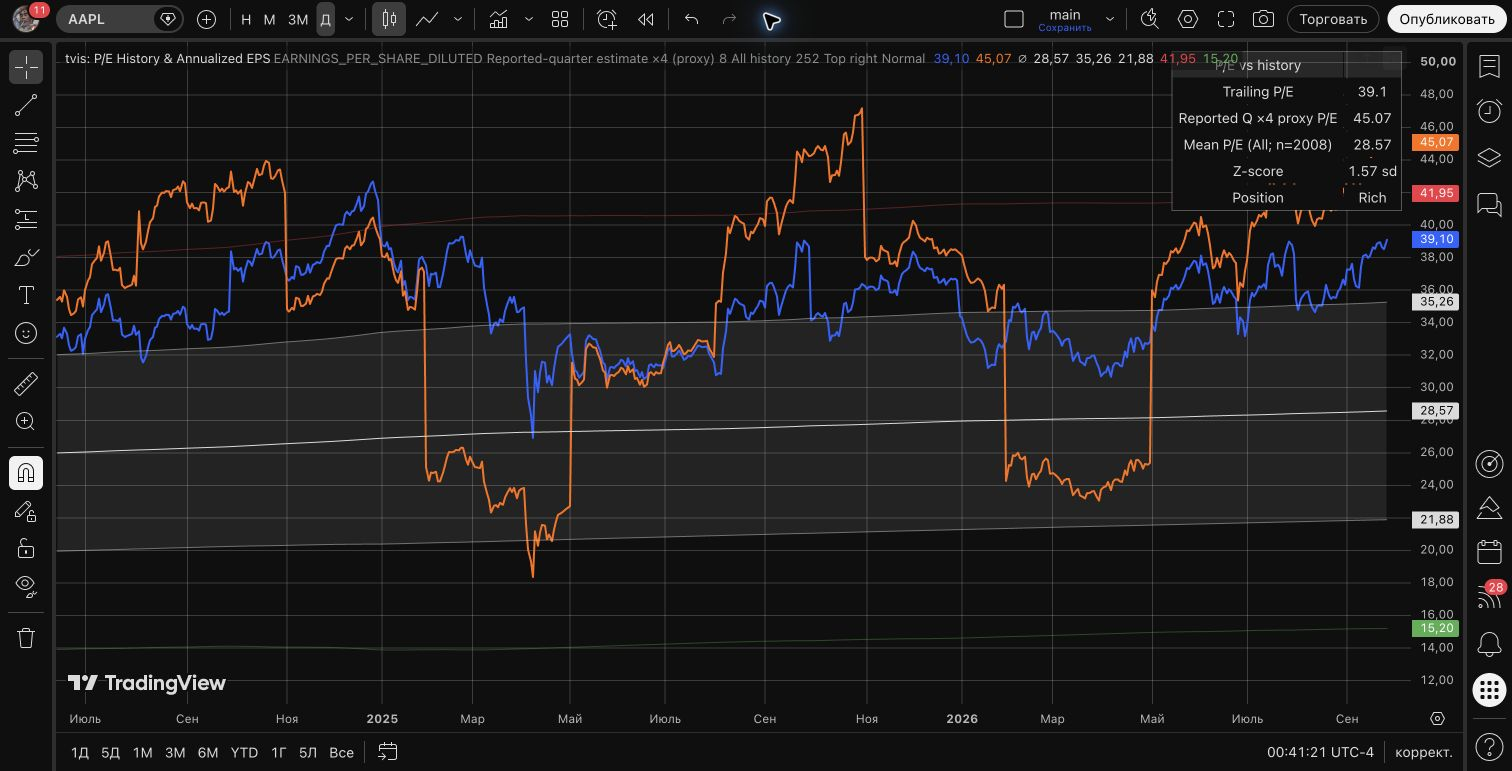
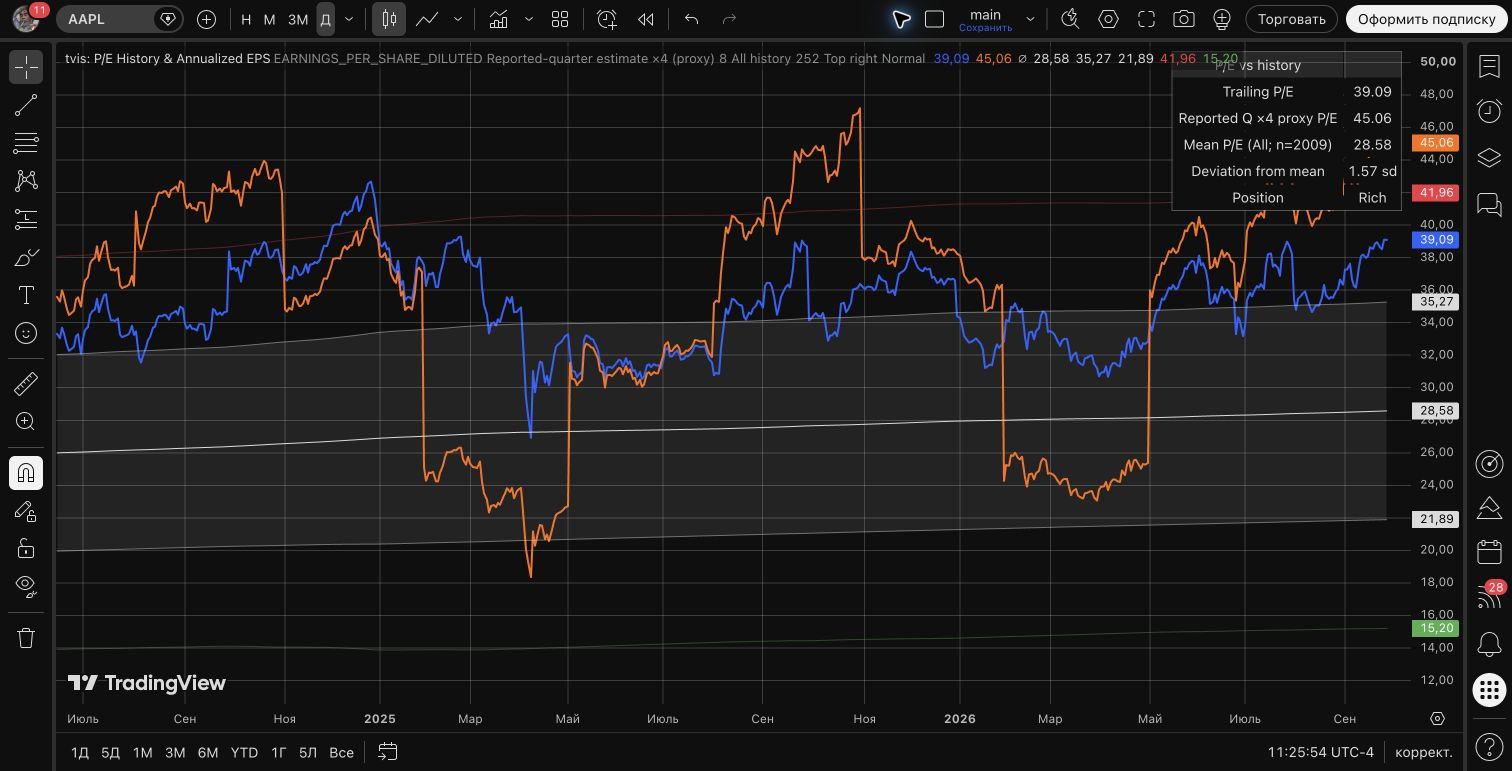
feat(pine): clarify deviation and verify live P/E behavior

diff --git a/scripts/check_pe.py b/scripts/check_pe.py
@@ -171,15 +171,16 @@ else
             raise fail(f"production statistics wiring must contain exactly once: {statement}")
     if len(re.findall(r"\bstatsQueueUpdate\s*\(", source)) != 2:
         raise fail("production must contain one statsQueueUpdate declaration and one guarded call")
-    band_plots = (
+    display_wiring = (
+        'table.cell(t, 0, 4, "Deviation from mean", text_color=chart.fg_color, bgcolor=rowBg, text_size=txtSize)',
         'pu1 = plot(showBands and not na(pe) ? u1 : na, "+1σ", color=color.new(chart.fg_color, 55), style=plot.style_linebr)',
         'pl1 = plot(showBands and not na(pe) ? l1 : na, "-1σ", color=color.new(chart.fg_color, 55), style=plot.style_linebr)',
         'plot(showBands and not na(pe) ? u2 : na, "+2σ", color=color.new(color.red, 65), style=plot.style_linebr)',
         'plot(showBands and not na(pe) ? l2 : na, "-2σ", color=color.new(color.green, 65), style=plot.style_linebr)',
     )
-    for statement in band_plots:
+    for statement in display_wiring:
         if lines.count(statement) != 1:
-            raise fail(f"production band plot must contain exactly once: {statement}")
+            raise fail(f"production display wiring must contain exactly once: {statement}")
     forbidden = ("ta.sma(pe, lookback)", "ta.stdev(pe, lookback)", "s2 / n -", "statsRemove(", "varip")
     for statement in forbidden:
         if statement in compact:

diff --git a/docs/validation.md b/docs/validation.md
@@ -1,11 +1,118 @@
 # Pine validation
 
-## Final validation — 2026-09-27
+## Final-source live validation — 2026-09-28
 
-**Historical/numerical checks passed; final-version realtime is NOT RUN.**
-This is not an all-green release sign-off. The 2026-09-25 realtime observation
+**Final-source Pine compilation, harness, live ticks and closed-bar reload passed
+in both All history and Rolling 252.** The Sunday realtime gap recorded below
+is now closed. The publication package is prepared; no TradingView
+publication was performed.
+
+| Artifact | SHA-256 |
+|---|---|
[3 lines of base64/hex data omitted]
+
+Compared with the September 27 source, production changes are limited to the
+visible table label `Z-score` → `Deviation from mean` and replacement of the
+stale timeframe-coverage comment with supported-context instructions. Financial
+requests, ratio/statistics functions, inputs and execution flow are unchanged.
+The earlier numerical and performance records retain their original SHAs;
+they were not presented as new runs. The renamed row still displays the same
+z-score and `sd` unit. README and publication text explain its formula and sign.
+
+The existing local checker now requires exactly one actual stripped table-cell
+line with the new label. Reverting the label while adding a matching comment,
+duplicating the actual line, or removing it each fails the check; the real
+source passes. This is a literal UI rename, not a numerical behavior change.
+The regenerated harness compiled and ran in Pine with **Smoke result = 1.0000**
+(19:21 +04). The exact production source was then pasted, copied back in full,
+SHA-checked after CRLF normalization, saved, compiled and executed. A post-live
+readback from saved **tvis: P/E Final Validation** again matched the final SHA.
+No unexpected compiler diagnostic or runtime error occurred in these runs.
+
+### Live procedure and observations
+
+Chart `UB8lbzak`, search symbol NASDAQ:AAPL, runtime **BATS:AAPL**, 1-minute
+standard candles, native USD, regular session, dividend adjustment off.
+TradingView reported market open and NASDAQ data from Cboe One updated every
+five seconds. Inputs: diluted TTM EPS, reported-quarter estimate ×4 proxy on,
+growth 8%, lookback 252, bands/table on, Top right/Normal. Only the window mode
+changed between the two runs. Times below are **2026-09-28, UTC-4**; add four
+hours for UTC or eight for Tbilisi.
+
+| Mode / open bar | Observation time | Close | Trailing P/E | Proxy | Mean | +1σ | -1σ | +2σ | -2σ |
+|---|---|---:|---:|---:|---:|---:|---:|---:|---:|
+| All / 11:21 | 11:21:34 | 340.84 | 39.07 | 45.04 | 38.07 | 39.01 | 37.13 | 39.95 | 36.18 |
+| All / 11:21 | 11:21:49 | 340.82 | 39.07 | 45.04 | 38.07 | 39.01 | 37.13 | 39.95 | 36.18 |
+| All / 11:21 | 11:21:54 | 340.87 | 39.08 | 45.04 | 38.07 | 39.01 | 37.13 | 39.95 | 36.18 |
+| Rolling / 11:23 | 11:23:24 | 341.19 | 39.11 | 45.09 | 39.06 | 39.15 | 38.96 | 39.25 | 38.86 |
+| Rolling / 11:23 | 11:23:42 | 340.90 | 39.08 | 45.05 | 39.06 | 39.15 | 38.96 | 39.25 | 38.86 |
+| Rolling / 11:23 | 11:23:58 | 340.91 | 39.08 | 45.05 | 39.06 | 39.15 | 38.96 | 39.25 | 38.86 |
+
+All-history table count stayed at **5572** within 11:21 and advanced to **5573**
+on the next minute; Rolling count was **252**. Multiple tick updates therefore
+did not accumulate extra samples within a bar. The displayed mean/bands need
+not move at every tick because they are rounded to two decimals.
+
+After each next minute opened, the preceding bar was selected in Data Window.
+Layout saving was confirmed by **Все изменения сохранены** before each normal
+page reload. The same date/time was selected again after reload; no symbol,
+interval, session, adjustment, currency or indicator input changed. Reload
+restored the saved viewport; cursor selection was repeated on the same bar.
+
+| Mode / closed bar | Before / after observation time | Close | P/E | Proxy | Mean | +1σ | -1σ | +2σ | -2σ |
+|---|---|---:|---:|---:|---:|---:|---:|---:|---:|
+| All / 11:21 | 11:22:09 / 11:22:38 | 340.88 | 39.08 | 45.05 | 38.07 | 39.01 | 37.13 | 39.95 | 36.18 |
+| Rolling / 11:23 | 11:24:15 / 11:24:38 | 340.94 | 39.08 | 45.05 | 39.06 | 39.15 | 38.96 | 39.25 | 38.86 |
+
+**All eight displayed numbers matched before/after in both rows**, including
+price. Indicator differences were 0.00, within the ±0.005 display tolerance
+from `precision=2`; the hidden growth plot remained unavailable. The supervisor
+independently compared both raw output rows and prices. This proves observable
+live updates, bar finalization and reload stability for these contexts, not
+hidden floating-point identity or immunity to future provider revisions.
+The table always describes the current last bar, so its current z/verdict is
+not treated as a historical Data Window value.
+
+An earlier reload before layout-save acknowledgement reopened the old NOW
+layout and was excluded. Likewise, an observation immediately after changing
+window mode still contained pre-recalculation values and was excluded. Neither
+is reported as a numerical mismatch or a passing final-source comparison.
+
+Raw DOM snapshots, screenshots, source readbacks and harness evidence were
+saved outside the repository at `/tmp/tvis-task7-live/`. In particular,
+`all325-closed-before.txt` / `all325-closed-after.txt` and the corresponding
+`rolling325-*` pair contain the selected date, time, price and complete output
+row; `all325-live1/2/3.txt` and `rolling325-live2/3/4.txt` contain the tick
+observations. Reproduce by saving the exact source/layout, recording three
+updates on one open minute, selecting that minute after the next one opens,
+then normally reloading and selecting the identical closed minute.
+
+### Saved copies and restoration
+
+The original Data Probe source was backed up before testing. Its chart instance
+was temporarily removed to permit adding the separate final copy; the user's
+old P/E instance and hidden ORB/LuxAlgo instances were preserved. After testing,
+the final test instance was removed and the exact original Data Probe was
+added again. Its source readback matched the probe SHA above; it compiled and
+showed the original EPS/estimate plots, comparison JPY, and the source-default
+log start 2026-01-01 00:00 UTC. The layout returned to NOW 1M standard candles
+with T1 watchlist, editor/data window closed, and was saved. The separately
+saved final editor copy remains the verified production version.
+
+The updated publication image shows this final source on AAPL 1D at 11:25:54
+UTC-4, with the production pane enlarged. Its current daily bar is open; this
+illustration is separate from the closed-minute comparisons above.
+
+
+## Historical final validation — 2026-09-27
+
+**Status on September 27: historical/numerical checks passed; realtime was NOT RUN.**
+The September 28 final-source live record above supersedes this remaining gap.
+This checkpoint was not an all-green release sign-off. The 2026-09-25 realtime observation
 below used an earlier source SHA and does not validate live behavior of the
-final source. Production code was unchanged in this final documentation task.
+final source. Production code was unchanged at the September 27 checkpoint.
 
 | Artifact | SHA-256 |
 |---|---|
@@ -51,8 +158,10 @@ Ratio tolerance was 1e-8; displayed z tolerance was 1e-7 because rounding an
 relax the full-precision Pine mean/sigma tolerance above.
 
 Session raw DOM logs, CSV, suffixes and the runnable arithmetic check were
-retained outside the repository in `/tmp/tvis-task7-m2BvYh/`; these temporary
-files are supplementary evidence, not an installation dependency. Reproduce
+saved at validation time in `/tmp/tvis-task7-m2BvYh/`. These temporary files
+were no longer present on 2026-09-28; the recorded independent checks and
+measurements below are the retained report, not a claim of current raw-file
+availability. Reproduce
 by appending measurement code to a scratch copy, logging the selected raw
 fields and using the independent two-pass arithmetic above. Never leave a
 measurement suffix in the installed production script.
@@ -230,16 +339,16 @@ commands are `make check`, `make test`, `git diff --check`, and
 `shasum -a 256 indicators/pe.pine`; local gates do not substitute for Pine
 runtime or the outstanding realtime observation.
 
-### Remaining acceptance gap
+### Acceptance gap recorded on September 27 (superseded above)
 
-**Realtime on this exact production SHA is NOT RUN.** On Sunday 2026-09-27 the
+**Realtime on this exact historical source SHA was NOT RUN.** On Sunday 2026-09-27 the
 supported equities checked here reported market closed. No live supported
 stock's multiple ticks, bar close and subsequent reload were observed for
 this SHA. Historical reload and crypto activity do not close that criterion.
-Repeat the existing live procedure with this exact source when a supported
-market opens; record open-bar changes, final closed-bar values and the same
-bar after reload. Until then the final realtime acceptance criterion and
-full publication readiness remain open.
+The final realtime acceptance criterion remained open at this checkpoint.
+The September 28 record above closes it on the updated final source with
+multiple live ticks, bar close and the same closed bar after normal reload
+in both window modes.
 
 
 Local commands verify files and generate source. They do not compile or run

diff --git a/docs/publication.md b/docs/publication.md
@@ -1,13 +1,13 @@
 # Publication draft
 
-**Status:** prepared for review, not published. Final-source realtime validation
-remains open; do not describe this package as fully validated until that check
-is recorded. No TradingView Publish action was performed.
+**Status:** prepared, not published. Final-source live ticks and
+closed-bar reload passed in both window modes on 2026-09-28; see the validation
+record for exact contexts and limits. No TradingView Publish action was performed.
 
 **ASCII title:** `tvis: P/E History & Annualized EPS`  
 **Author:** `golyshevskii`  
 **Source:** [`../indicators/pe.pine`](../indicators/pe.pine)  
[2 lines of base64/hex data omitted]
 **License:** MPL-2.0, with the source notice and author attribution retained.
 
 ## English description
@@ -15,7 +15,12 @@ is recorded. No TradingView Publish action was performed.
 Compare a stock's trailing price-to-earnings ratio with its own loaded chart
 history. Choose diluted or basic trailing-twelve-month EPS. The indicator
 shows trailing P/E, its arithmetic mean, population standard-deviation bands,
-and a z-score with a descriptive historical position.
+and **Deviation from mean** with a descriptive historical position.
+
+Deviation from mean is the z-score: `(current P/E - mean) / sigma`. Its unit,
+`sd`, means standard deviations. Positive values are above the historical mean,
+negative values below it; `1.5 sd` means 1.5 standard deviations above the mean.
+This describes relative historical position, not a probability or trade signal.
 
 An optional second ratio offers two distinct methods:
 
@@ -78,16 +83,18 @@ unchanging history. Neither proxy nor growth scenario predicts returns.
   with overlapping ranges; no universal speedup percentage is claimed.
 
 The final [validation record](validation.md) states exactly which source,
-contexts, dates and inputs were checked, and which realtime check remains open.
+contexts, dates and inputs were checked, including both final-source realtime
+window modes and closed-bar reload comparisons.
 
 ## Chart image
 
-![AAPL daily P/E indicator, standard-candle source, 2026-09-25 close](images/pe-aapl-daily.png)
+![AAPL daily P/E indicator with Deviation from mean, 2026-09-28](images/pe-aapl-daily.png)
 
-Captured 2026-09-27 on BATS:AAPL 1D, native USD, regular session, dividend
-adjustment off; diluted EPS, All history, reported-quarter proxy, default
-growth 8%/lookback 252, bands/table on, Top right/Normal. The exact production
-indicator pane is enlarged for the image; the underlying chart uses standard
-candles. Closed-bar trailing P/E 39.10, proxy 45.07, mean 28.57, n=2008,
-z=1.57 and Position Rich. The image is a historical illustration, not a live
-validation result.
+Captured 2026-09-28 at 11:25:54 UTC-4 on BATS:AAPL 1D, native USD, regular
+session, dividend adjustment off; diluted EPS, All history, reported-quarter
+proxy, default growth 8%/lookback 252, bands/table on, Top right/Normal.
+The exact final production pane is enlarged; the underlying chart uses standard
+candles. The current daily bar is open: trailing P/E 39.09, proxy 45.06,
+mean 28.58, n=2009, Deviation from mean 1.57 sd, Position Rich. This image
+illustrates the interface; the separate validation record documents live ticks
+and comparisons of identical closed one-minute bars.

diff --git a/README.md b/README.md
@@ -20,10 +20,15 @@ TTM growth rate. It is not an NTM consensus forecast. All history averages
 valid loaded chart bars; Rolling uses the last N consecutive chart bars.
 Small positive EPS can create very large P/E values and dominate the mean.
 
+**Deviation from mean** is `(current P/E - mean) / sigma`, shown in standard
+deviations (`sd`). Positive values are above the mean; negative values are
+below it. For example, `1.5 sd` means 1.5 standard deviations above the mean.
+
 See the [calculation contract](docs/calculation-contract.md),
 [validation record](docs/validation.md), [performance measurements](docs/performance.md)
-and [publication draft](docs/publication.md). The final-version realtime check
-is still pending; the publication draft is not a release approval.
+and [publication draft](docs/publication.md). Final-source live ticks and
+closed-bar reload passed in both window modes on 2026-09-28. The publication
+draft is prepared; no script has been published.
 
 ## Local verification
 

diff --git a/docs/calculation-contract.md b/docs/calculation-contract.md
@@ -103,7 +103,7 @@ ADR conversion/split policy is supplied by the provider; this probe does
 not certify arbitrary ADR ratios or corporate-action histories.
 
 The final 2026-09-27 matrix additionally measured standard regular-session
-60-minute and monthly AAPL/GOOG bars; see [validation](validation.md#final-validation--2026-09-27).
+60-minute and monthly AAPL/GOOG bars; see [validation](validation.md#historical-final-validation--2026-09-27).
 Currency overrides on the chart, minor-unit quotes (e.g. GBX), synthetic
 charts and extended sessions remain outside the supported context. The
 Heikin Ashi check confirmed that the script uses the synthetic close; it does
